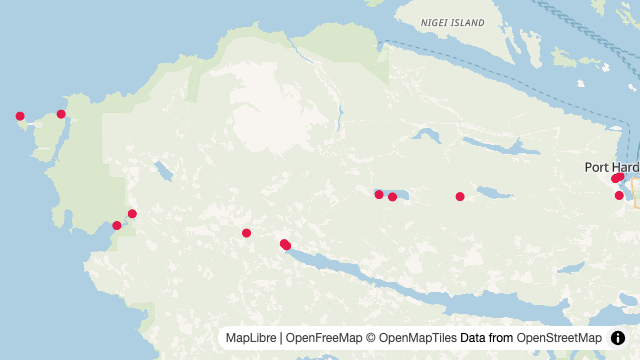
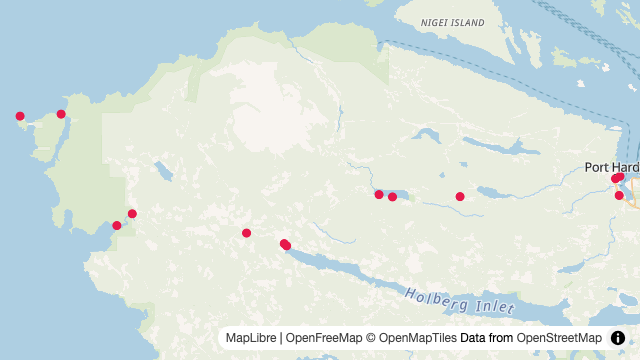
fix: correct docs relative-link rewriting
Docs-site link handling fixes and housekeeping:

- Docs-resident relative links keep their docs/ prefix (nuxt.config.js
  -> docs/nuxt.config.js); escapes still normalise to repo-root paths
- llms.txt / llms-full.txt links point at the site root instead of
  staying relative
- Remove stale v1 v2.html loader left over from the docs-site commit
- Refresh api-quick-start and dev-layer-added screenshots

Files changed:
- docs/2.development.md
- docs/app/lib/docs-content.mjs
- docs/llms-full.txt
- docs/public/llms-full.txt
- docs/public/v1/v2.html (removed)
- screenshots/api-quick-start.png
- screenshots/dev-layer-added.png

diff --git a/docs/2.development.md b/docs/2.development.md
@@ -284,7 +284,7 @@ Pages, routes and the prev/next pagers follow the markdown links in [`docs/llms.
 - Pages render with `marked` (GitHub-flavoured markdown) and `highlight.js` at build time; content headings get self-links and GitHub alerts become branded callouts.
 - Embedded screenshots render as semantic `<figure>` elements with descriptive captions — the markdown image title when present, otherwise the alt text.
 - Fenced code blocks are syntax-highlighted at build time and get a client-side copy button; wide tables scroll inside their own wrappers.
-- Relative `.md` links become site routes; other repo-relative links are rewritten to `https://github.com/OpenGIS/Waymark-JS/blob/master/...`; llms bundle links stay relative.
+- Relative `.md` links become site routes; other repo-relative links are rewritten to `https://github.com/OpenGIS/Waymark-JS/blob/master/...`; llms bundle links point at the site root.
 - Layout and theming come from the hosted OpenGIS branding stylesheet plus the `background-map.js` header module; the favicon and header mark come from `docs/assets/waymark-logo.svg`.
 
 Site configuration is via environment variables, documented in [`docs/.env.example`](.env.example); copy it to `docs/.env` (gitignored) to override — values are read from the app root (`docs/`) when the dev server starts or the site is generated, so restart or regenerate after changing them. `NUXT_PUBLIC_PRODUCTION_URL` is the single deployment value: it sets both the absolute site URL used for `<link rel="canonical">` and the asset base path (derived from its pathname; default `https://www.ogis.org/waymark-js`, and the root path when unset). `NUXT_PUBLIC_BRANDING_URL` (default `https://www.ogis.org/branding`) sets the two branding asset links in the head — the theme stylesheet and the `background-map.js` module — and nothing else: the logo is a local asset and the Waymark v1 dependencies are resolved inside the hosted module.
